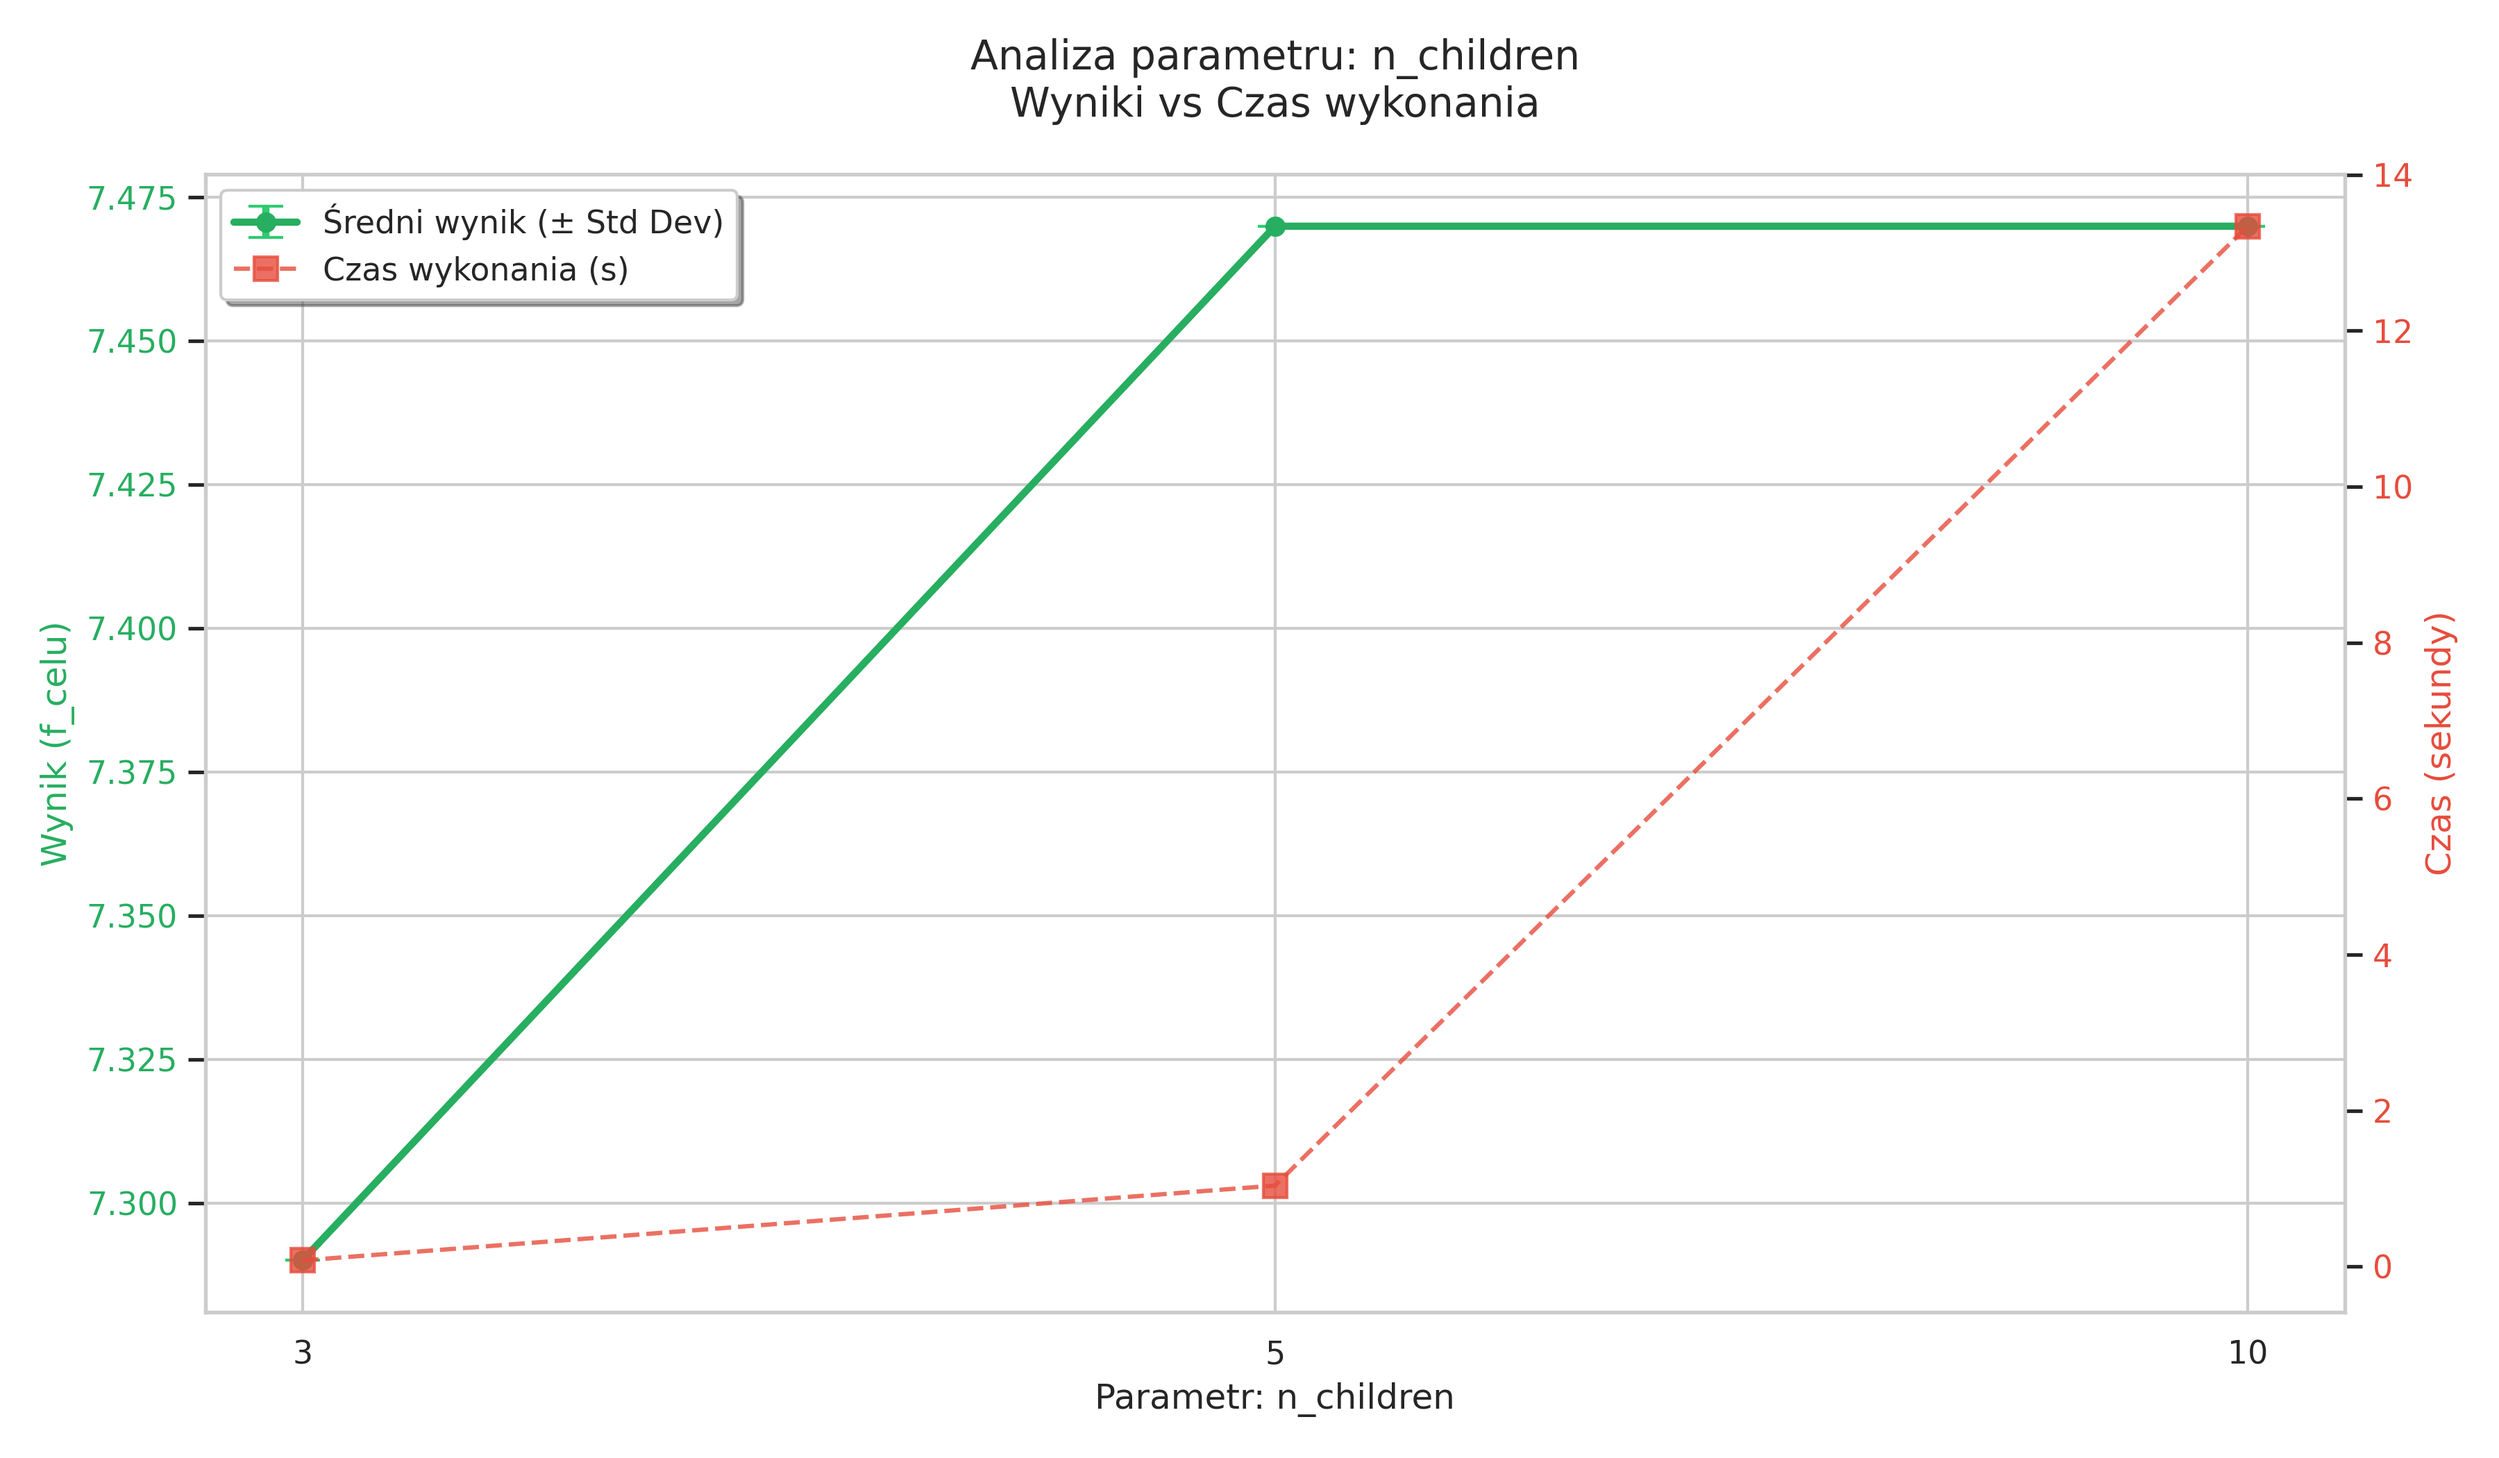
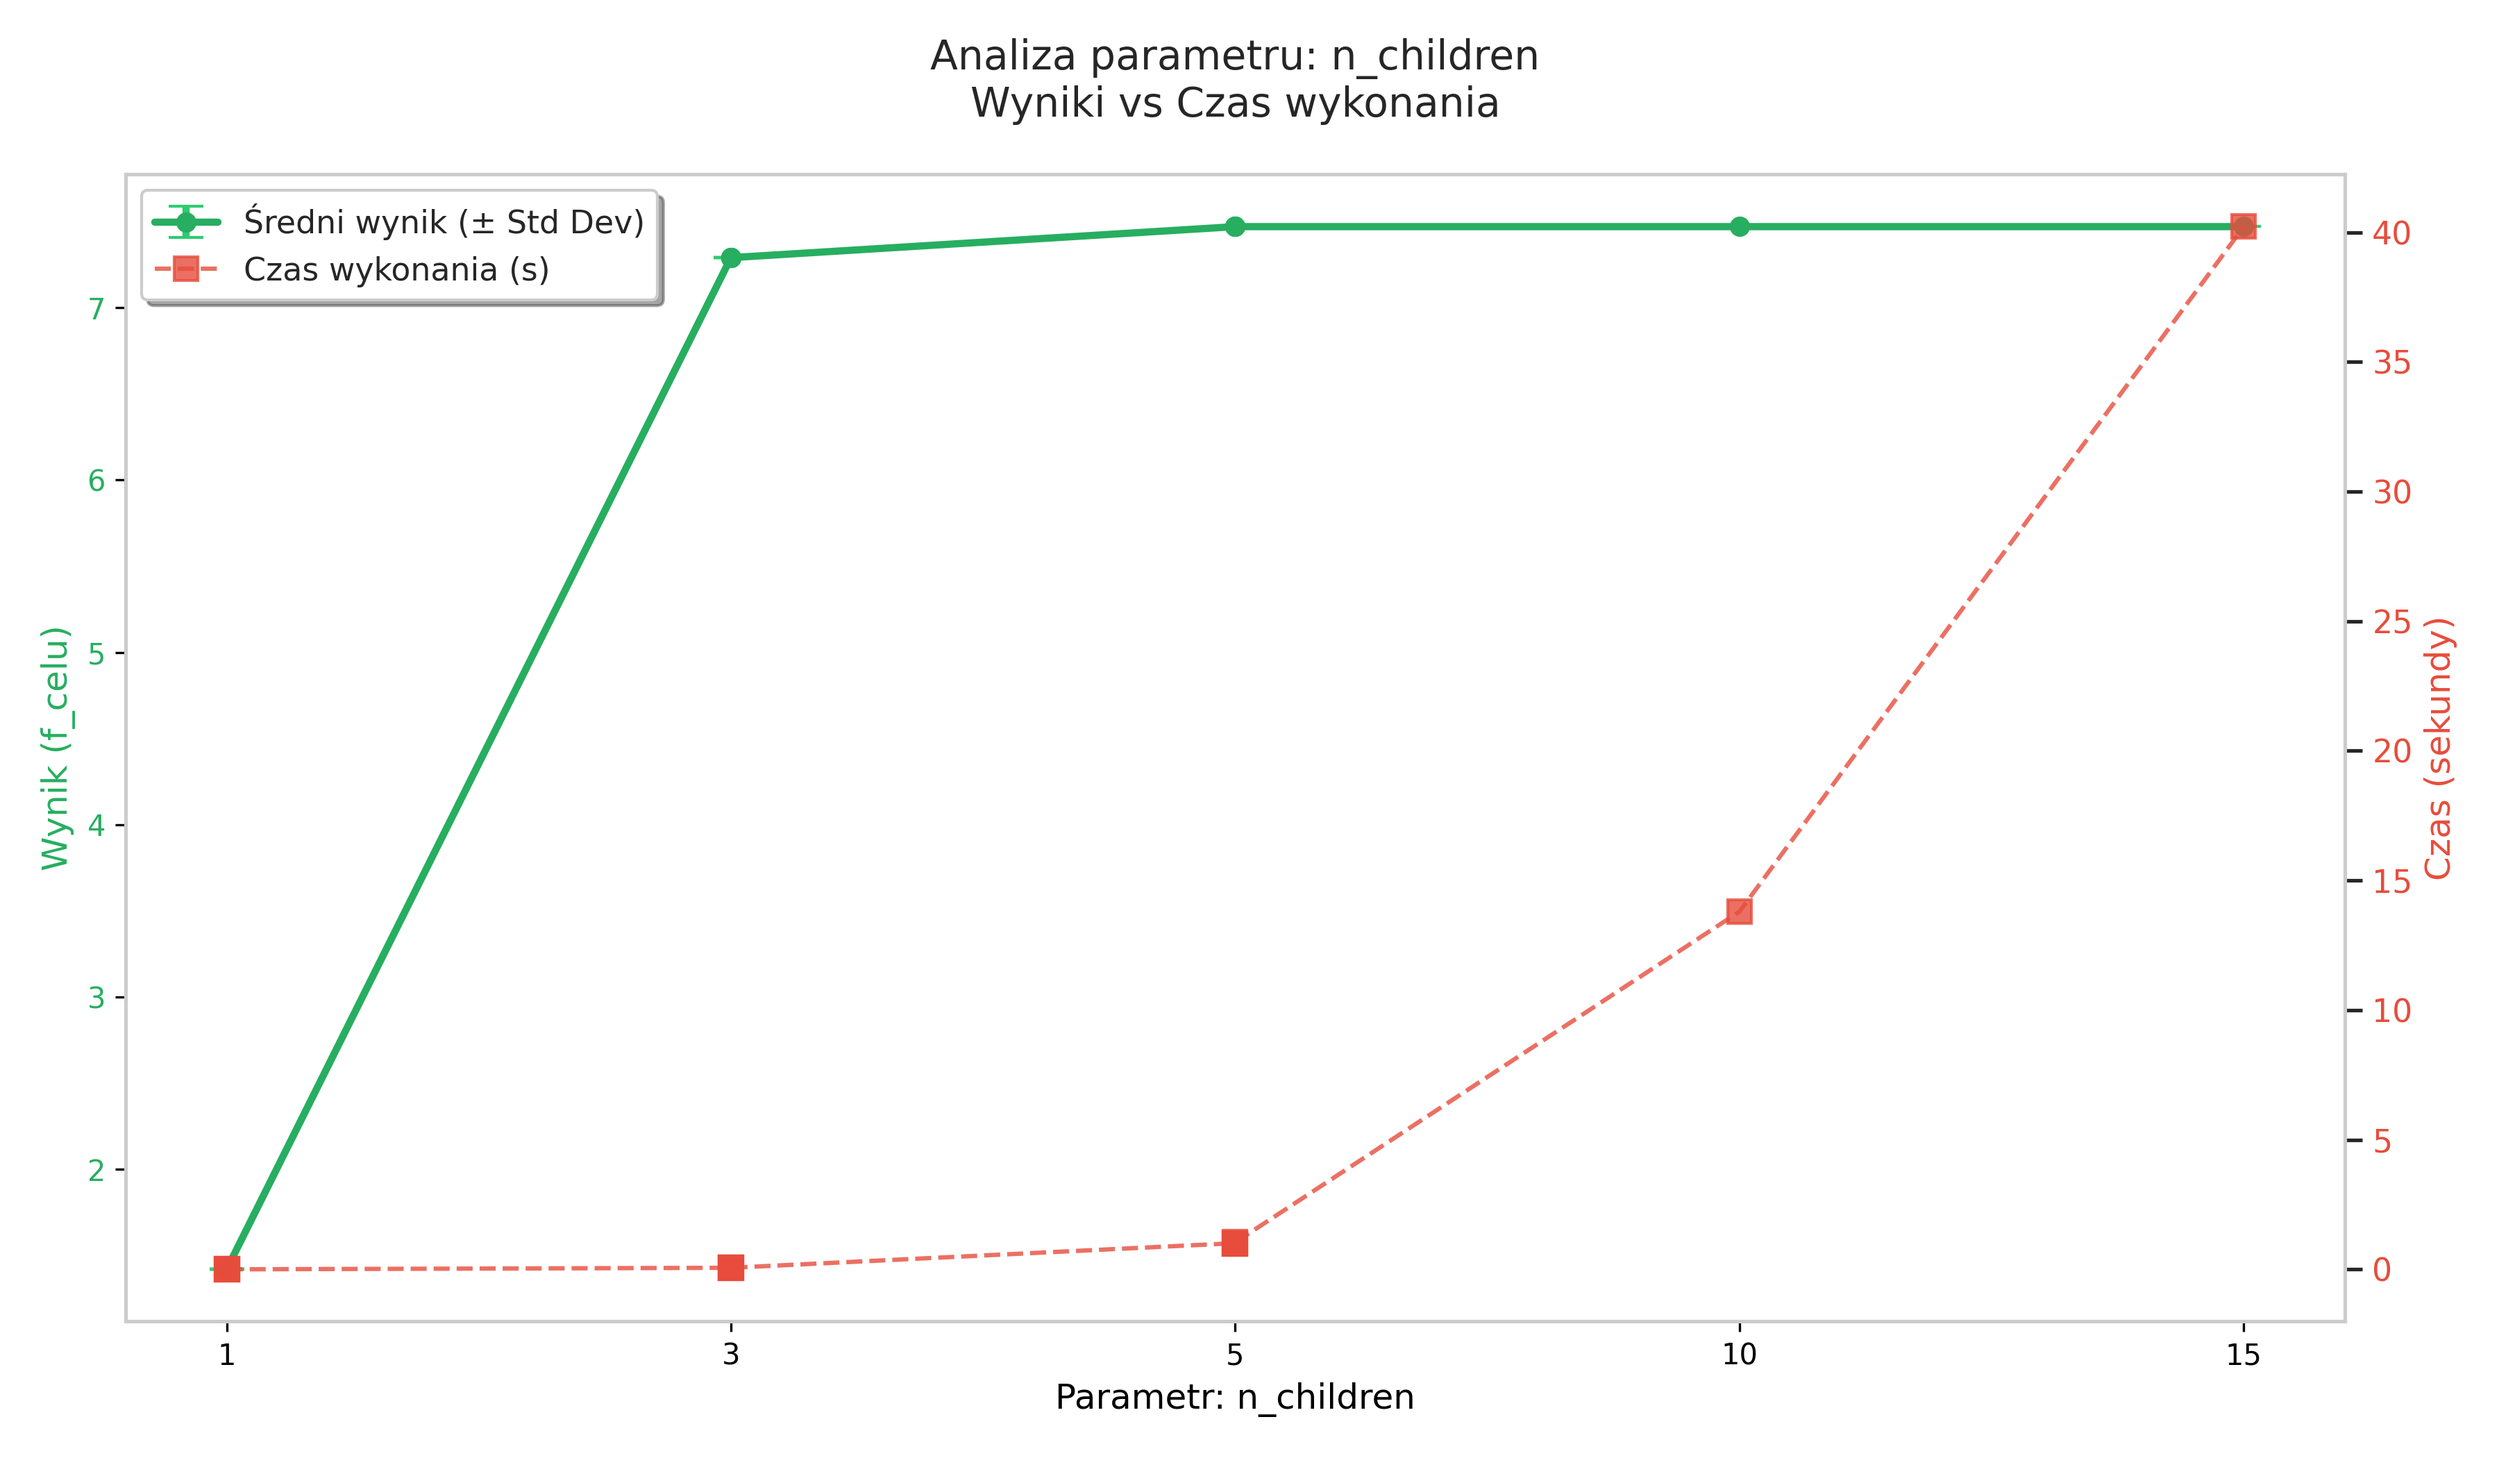
add more n_children vals for astar

diff --git a/experiment/experiments/params_tuning/a_star.py b/experiment/experiments/params_tuning/a_star.py
@@ -12,7 +12,7 @@ DEFAULT_PATH_NODES = 10
 def tune_astar_n_children() -> list[Experiment]:
     experiment_name = "astar_tune_n_children"
     experiments = []
-    for n in [3, 5, 10]:
+    for n in [1, 3, 5, 10, 15]:
         experiment = Experiment(
             name=experiment_name,
             graph=Graph(
